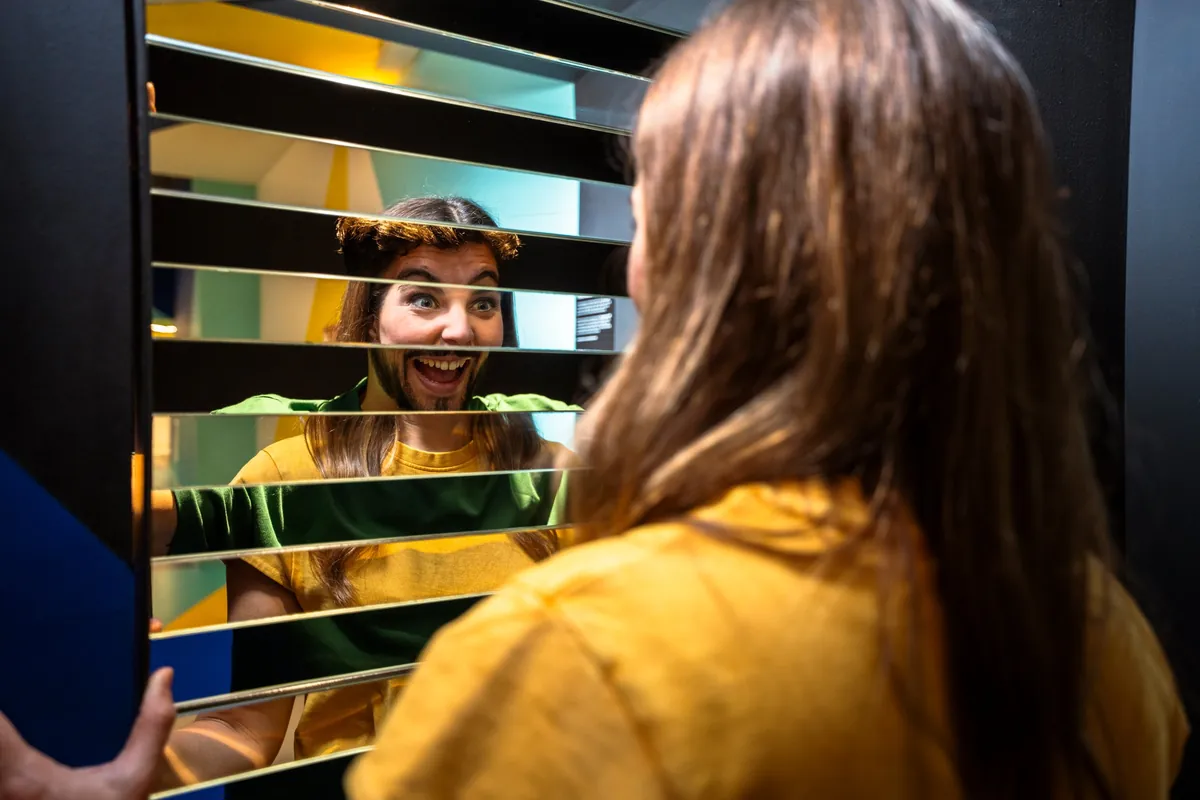
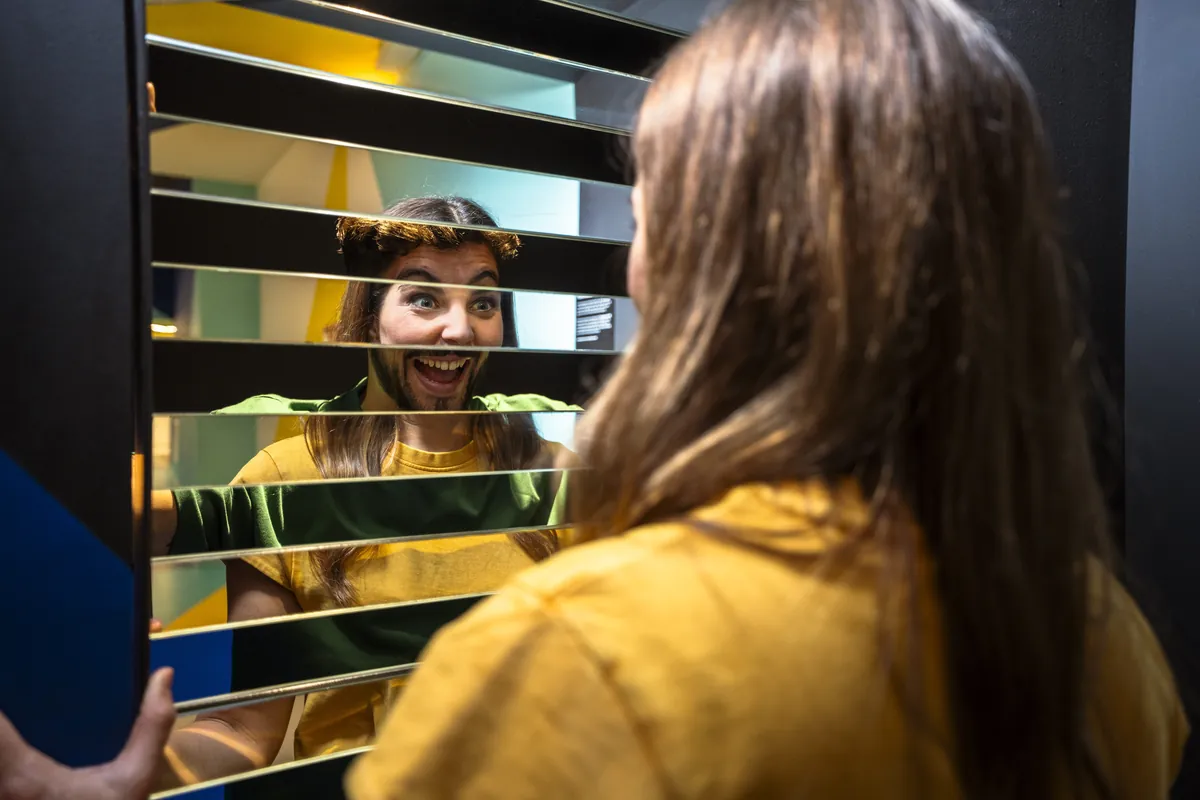
37 fotos reales del museo y dos correcciones de contenido
Trece exhibiciones pasan a tener foto principal y galería (121 MB de
originales -> 2,8 MB en WebP). Corrige las descripciones de Paradox
Challenge y Zero Gravity, que describían un funcionamiento que las
fotos y la operativa real desmienten.

Claude-Session: https://claude.ai/code/session_017h9C7QWgzjysWda1wnqsSP

diff --git a/index.html b/index.html
@@ -130,6 +130,11 @@ main{flex:1;overflow-y:auto;overscroll-behavior:contain;
   max-width:46ch}
 .sub{margin:10px 0 0;font-size:13.5px;line-height:1.6;color:var(--grey);max-width:62ch}
 
+.gal{display:flex;gap:9px;overflow-x:auto;padding-bottom:4px;
+  margin:0 calc(-1 * max(16px,env(safe-area-inset-left,0px)));
+  padding-inline:max(16px,env(safe-area-inset-left,0px))}
+.gal img{flex:0 0 auto;height:190px;width:auto;max-width:none;display:block;
+  border:1px solid var(--line)}
 .howrow{display:flex;gap:10px;overflow-x:auto;padding-bottom:4px;
   margin:0 calc(-1 * max(16px,env(safe-area-inset-left,0px)));
   padding-inline:max(16px,env(safe-area-inset-left,0px))}
@@ -274,9 +279,9 @@ const UI={
      stops:"paradas",visited:"vistas",photo:"Ilustración de ejemplo",
      next:"Siguiente exhibición",end:"Fin del recorrido",
      lblHook:"El truco",lblHow:"Cómo hacerla bien",lblQuiz:"Reto",
-     lblIncl:"Incluye",lblInfo:"Qué está pasando",reveal:"Ver la respuesta",
+     lblIncl:"Incluye",lblFotos:"Cómo queda",lblInfo:"Qué está pasando",reveal:"Ver la respuesta",
      pendHook:"Texto divertido pendiente. Nos lo pasáis y lo montamos aquí.",
-     pendHow:"Pendientes las fotos reales de cómo se hace.",
+     pendHow:"Pendientes las indicaciones de cómo se hace.",
      photoPend:"Foto pendiente",
      styleTitle:"Estilo de ilustración",
      styleIntro:"Las fotos reales se convertirán en dibujo. Elige el estilo y toda la guía cambia al instante.",
@@ -287,9 +292,9 @@ const UI={
      stops:"parades",visited:"vistes",photo:"Il·lustració d'exemple",
      next:"Següent exhibició",end:"Fi del recorregut",
      lblHook:"El truc",lblHow:"Com fer-la bé",lblQuiz:"Repte",
-     lblIncl:"Inclou",lblInfo:"Què està passant",reveal:"Veure la resposta",
+     lblIncl:"Inclou",lblFotos:"Com queda",lblInfo:"Què està passant",reveal:"Veure la resposta",
      pendHook:"Text divertit pendent. Ens el passeu i el muntem aquí.",
-     pendHow:"Pendents les fotos reals de com es fa.",
+     pendHow:"Pendents les indicacions de com es fa.",
      photoPend:"Foto pendent",
      styleTitle:"Estil d'il·lustració",
      styleIntro:"Les fotos reals es convertiran en dibuix. Tria l'estil i tota la guia canvia a l'instant.",
@@ -300,9 +305,9 @@ const UI={
      stops:"stops",visited:"seen",photo:"Sample illustration",
      next:"Next exhibit",end:"End of the tour",
      lblHook:"The trick",lblHow:"How to nail it",lblQuiz:"Challenge",
-     lblIncl:"Includes",lblInfo:"What is going on",reveal:"Show the answer",
+     lblIncl:"Includes",lblFotos:"How it looks",lblInfo:"What is going on",reveal:"Show the answer",
      pendHook:"Fun copy pending. Send it over and it goes here.",
-     pendHow:"Real how-to photos still to come.",
+     pendHow:"How-to steps still to come.",
      photoPend:"Photo pending",
      styleTitle:"Illustration style",
      styleIntro:"Real photos will be turned into drawings. Pick a style and the whole guide switches instantly.",
@@ -656,6 +661,149 @@ Object.entries(OFICIAL).forEach(([titulo, datos]) => {
   S.filter(s => s.t === titulo).forEach(s => Object.assign(s, datos));
 });
 
+/* ── Fotos reales del museo ────────────────────────────────
+   img = principal de la ficha; fotos = galería. */
+const FOTOS = {
+ "Ambiguous Shapes": {
+  "img": "img/fotos/15_ambiguous-shapes_hero.webp",
+  "fotos": [
+   "img/fotos/15_ambiguous-shapes_1.webp"
+  ]
+ },
+ "Ames Room": {
+  "img": "img/fotos/32_ames-room_hero.webp",
+  "fotos": [
+   "img/fotos/32_ames-room_1.webp"
+  ]
+ },
+ "Camouflage Wall": {
+  "img": "img/fotos/39_camouflage_hero.webp",
+  "fotos": [
+   "img/fotos/39_camouflage_1.webp",
+   "img/fotos/39_camouflage_2.webp",
+   "img/fotos/39_camouflage_3.webp",
+   "img/fotos/39_camouflage_4.webp"
+  ]
+ },
+ "Infinity Dodecahedron": {
+  "img": "img/fotos/11_dodecahedron_hero.webp",
+  "fotos": [
+   "img/fotos/11_dodecahedron_1.webp"
+  ]
+ },
+ "Face Blender": {
+  "img": "img/fotos/31_face-blender_hero.webp",
+  "fotos": [
+   "img/fotos/31_face-blender_1.webp"
+  ]
+ },
+ "Infinity Window": {
+  "img": "img/fotos/12_infinity-window_hero.webp"
+ },
+ "Infinity Well": {
+  "img": "img/fotos/34_infinity-well_hero.webp"
+ },
+ "Kaleidoscope": {
+  "img": "img/fotos/50_kaleidoscope_hero.webp",
+  "fotos": [
+   "img/fotos/50_kaleidoscope_1.webp"
+  ]
+ },
+ "Mirror": {
+  "img": "img/fotos/36_mirrors_hero.webp",
+  "fotos": [
+   "img/fotos/36_mirrors_1.webp"
+  ]
+ },
+ "Paradox Challenge": {
+  "img": "img/fotos/52_paradox-challenge_hero.webp",
+  "fotos": [
+   "img/fotos/52_paradox-challenge_1.webp",
+   "img/fotos/52_paradox-challenge_2.webp"
+  ]
+ },
+ "PDX Sofa": {
+  "img": "img/fotos/42_sofa_hero.webp",
+  "fotos": [
+   "img/fotos/42_sofa_1.webp",
+   "img/fotos/42_sofa_2.webp"
+  ]
+ },
+ "Infinity Tunnel": {
+  "img": "img/fotos/16_tunnel_hero.webp",
+  "fotos": [
+   "img/fotos/16_tunnel_1.webp",
+   "img/fotos/16_tunnel_2.webp",
+   "img/fotos/16_tunnel_3.webp"
+  ]
+ },
+ "Zero Gravity": {
+  "img": "img/fotos/17_zero-gravity_hero.webp",
+  "fotos": [
+   "img/fotos/17_zero-gravity_1.webp",
+   "img/fotos/17_zero-gravity_2.webp",
+   "img/fotos/17_zero-gravity_3.webp",
+   "img/fotos/17_zero-gravity_4.webp"
+  ]
+ }
+};
+Object.entries(FOTOS).forEach(([titulo, datos]) => {
+  S.filter(s => s.t === titulo).forEach(s => Object.assign(s, datos));
+});
+
+/* ── Correcciones ─────────────────────────────────────────── */
+const CORRECCIONES = {
+ "Paradox Challenge": {
+  "hook": {
+   "es": "Aquí no hay postura correcta, hay foto correcta. Colócate, dispara y gira la pantalla.",
+   "ca": "Aquí no hi ha postura correcta, hi ha foto correcta. Col·loca't, dispara i gira la pantalla.",
+   "en": "There is no right pose here, only a right photo. Get in place, shoot, then turn your screen."
+  },
+  "d": {
+   "es": "Paredes de rayas que salen disparadas en todas direcciones, un globo amarillo y ni una sola referencia fiable de dónde está el suelo. Esa es toda la trampa: sin horizontal ni vertical que te orienten, el cerebro acepta la orientación que le dé la foto.\n\nColócate donde te indique el equipo, haz la foto y gírala. En la pantalla vas a parecer que haces el pino sobre el globo, que flotas a media altura o que el globo tira de ti hacia el techo. En la sala, mientras tanto, estabas perfectamente apoyado.",
+   "ca": "Parets de ratlles que surten disparades en totes direccions, un globus groc i ni una sola referència fiable d'on és el terra. Aquesta és tota la trampa: sense horitzontal ni vertical que t'orientin, el cervell accepta l'orientació que li doni la foto.\n\nCol·loca't on t'indiqui l'equip, fes la foto i gira-la. A la pantalla semblarà que fas el pi sobre el globus, que flotes a mitja alçada o que el globus estira de tu cap al sostre. A la sala, mentrestant, estaves perfectament recolzat.",
+   "en": "Striped walls shooting off in every direction, a yellow balloon and not one reliable clue about where the floor is. That is the whole trick: with no horizontal or vertical to orient you, your brain accepts whatever orientation the photo gives it.\n\nStand where the team tells you, take the photo and rotate it. On screen you will look like you are handstanding on the balloon, floating in mid-air or being pulled up to the ceiling. In the room, meanwhile, you were comfortably propped up."
+  },
+  "how": null,
+  "quiz": {
+   "q": {
+    "es": "¿Por qué funciona mejor esta foto girada que mirando la sala en directo?",
+    "ca": "Per què funciona millor aquesta foto girada que mirant la sala en directe?",
+    "en": "Why does the rotated photo work better than looking at the room live?"
+   },
+   "a": {
+    "es": "Porque en directo tu <b>oído interno</b> sabe perfectamente dónde está el suelo y desmonta la ilusión al instante. La foto no tiene oído interno: sólo tiene las rayas, y las rayas dicen lo que nosotros queramos.",
+    "ca": "Perquè en directe la teva <b>oïda interna</b> sap perfectament on és el terra i desmunta la il·lusió a l'instant. La foto no té oïda interna: només té les ratlles, i les ratlles diuen el que nosaltres vulguem.",
+    "en": "Because live, your <b>inner ear</b> knows exactly where the floor is and dismantles the illusion instantly. A photo has no inner ear: it only has the stripes, and the stripes say whatever we want them to."
+   }
+  }
+ }
+};
+Object.entries(CORRECCIONES).forEach(([titulo, datos]) => {
+  S.filter(s => s.t === titulo).forEach(s => {
+    Object.entries(datos).forEach(([k, v]) => { if (v === null) delete s[k]; else s[k] = v; });
+  });
+});
+
+/* ── Correcciones (2) ─────────────────────────────────────── */
+const CORRECCIONES2 = {
+ "Zero Gravity": {
+  "hook": {
+   "es": "Tú no te mueves. La sala sí. Y la cámara gira con ella.",
+   "ca": "Tu no et mous. La sala sí. I la càmera gira amb ella.",
+   "en": "You are not the one moving. The room is. And the camera turns with it."
+  },
+  "d": {
+   "es": "Zero Gravity es una rueda cuadrada que gira contigo dentro. El móvil va montado en un soporte exterior que gira solidario con la sala, así que en el vídeo el suelo nunca se mueve de sitio: el que parece moverse eres tú, subiendo por las paredes y quedándote del revés en el techo.\n\nNo hay cables, ni croma, ni efectos añadidos después. Todo el truco está en que la cámara y la habitación giren exactamente a la vez, de modo que la grabación no tiene ninguna referencia fija con la que delatar el movimiento.\n\nAntes de entrar te darán unos patucos de tela para ponerte encima del calzado.",
+   "ca": "Zero Gravity és una roda quadrada que gira amb tu a dins. El mòbil va muntat en un suport exterior que gira solidari amb la sala, així que al vídeo el terra no es mou mai de lloc: el que sembla moure's ets tu, pujant per les parets i quedant-te del revés al sostre.\n\nNo hi ha cables, ni croma, ni efectes afegits després. Tot el truc està en què la càmera i l'habitació girin exactament alhora, de manera que l'enregistrament no té cap referència fixa amb la qual delatar el moviment.\n\nAbans d'entrar et donaran uns peücs de tela per posar-te damunt del calçat.",
+   "en": "Zero Gravity is a square wheel that rotates with you inside it. The phone sits on an external mount that turns together with the room, so in the video the floor never moves: the one who appears to move is you, walking up the walls and ending up upside down on the ceiling.\n\nNo wires, no green screen, nothing added afterwards. The whole trick is that the camera and the room turn at exactly the same time, leaving the recording without a single fixed reference to give the movement away.\n\nBefore you go in you will be given fabric shoe covers to put on over your shoes."
+  }
+ }
+};
+Object.entries(CORRECCIONES2).forEach(([t, d]) => {
+  S.filter(s => s.t === t).forEach(s => Object.assign(s, d));
+});
+
 /* ── placeholder art, three selectable drawing styles ───────── */
 const BG="#101016";
 function shapes(kind,c){
@@ -911,6 +1059,10 @@ function openStop(i){
 
     ${s.list?`<div class="block"><div class="lbl">${L().lblIncl}</div>
       <div class="chips">${s.list.map(x=>`<span>${esc(x)}</span>`).join("")}</div></div>`:""}
+
+    ${s.fotos&&s.fotos.length?`<div class="block"><div class="lbl">${L().lblFotos}</div>
+      <div class="gal">${s.fotos.map(f=>`<img src="${f}" alt="" loading="lazy" decoding="async">`).join("")}</div>
+      </div>`:""}
 
     <div class="block"><div class="lbl">${L().lblHow}</div>${how}</div>
 

diff --git a/sw.js b/sw.js
@@ -1,7 +1,7 @@
 /* Paradox — audioguía: caché para que funcione sin cobertura (sótano incluido).
    IMPORTANTE: sube el número de VERSION cada vez que publiques cambios,
    o los visitantes seguirán viendo la versión antigua guardada en su móvil. */
-const VERSION = "pdx-guia-v2";
+const VERSION = "pdx-guia-v3";
 
 const SHELL = [
   "./",
